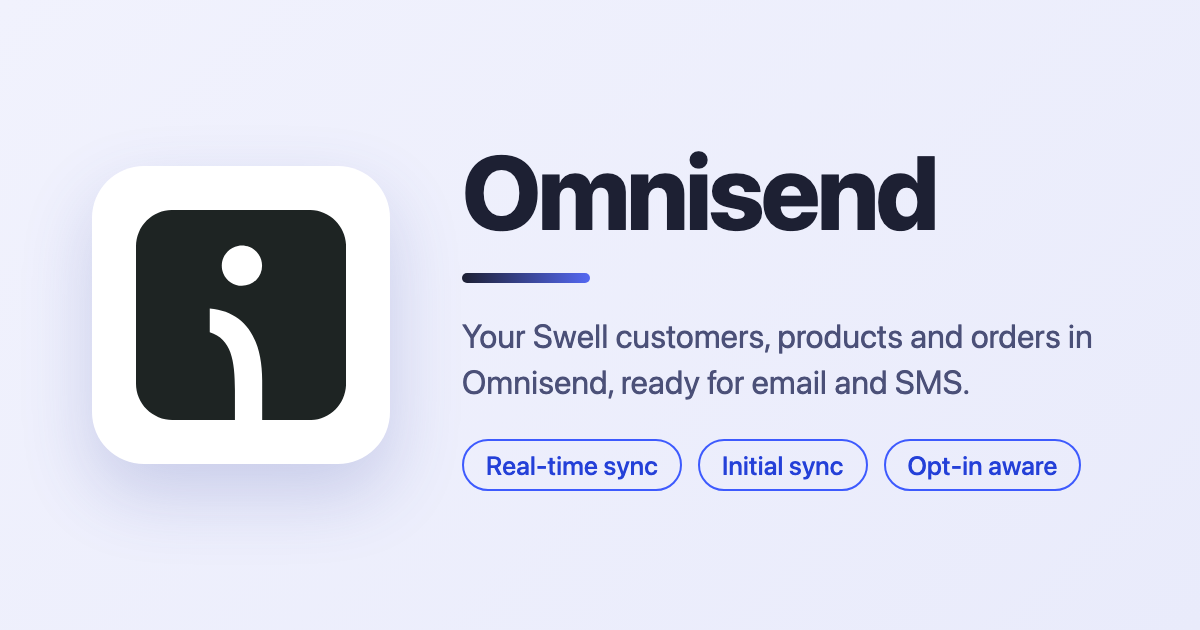
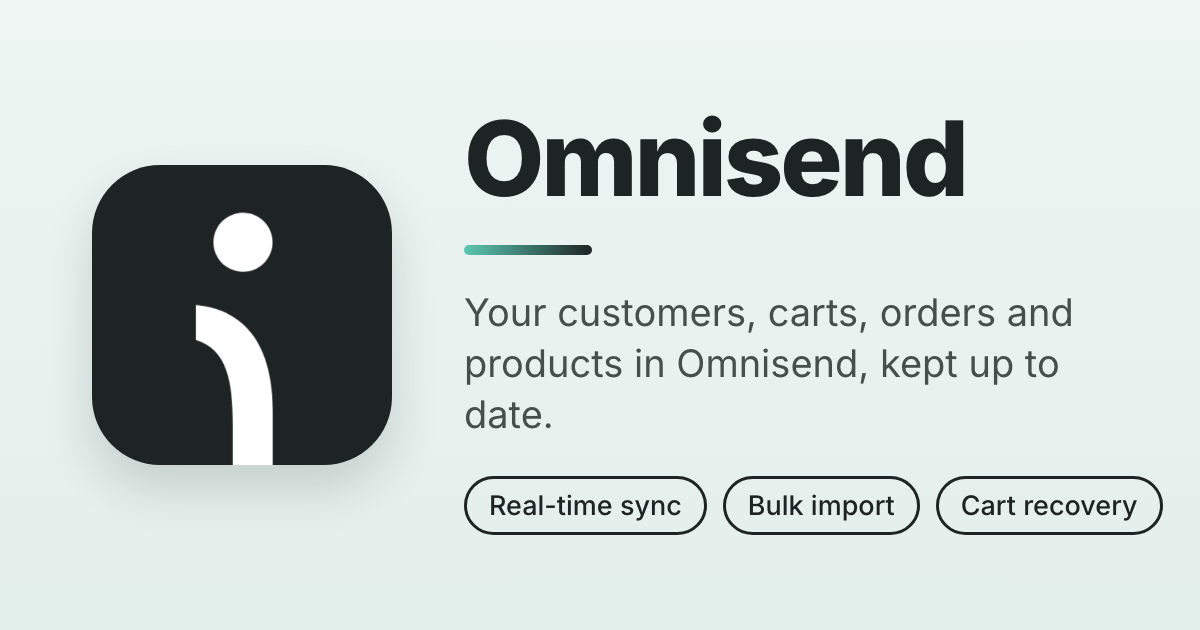
Rewrite the App Store listing in the house style
- DESCRIPTION.md follows the format of the other Swell-built apps: what is
  sent for contacts, carts, orders and products, the sync page for existing
  data, and the install prompt that turns the built-in integration off
- A new tagline in swell.json and package.json
- Four listing images in assets/images/, rebuilt from real screens: the
  app's sync page (from frontend/src), a contact in Omnisend (rebuilt from
  Omnisend's help-center screenshots), the app settings, and the install
  conflict prompt. Sync options are on the cover now, so the separate
  sync-options image is gone
- The icon is the Omnisend mark as a full-bleed square, since Swell rounds
  icons itself. New 1200x630 social card
- swell.json links the new app guide in documentation_url and sets
  price_external, since the app needs an Omnisend account
- The API key hint in the settings and README points to Omnisend's current
  Store settings → API keys page

diff --git a/DESCRIPTION.md b/DESCRIPTION.md
@@ -1,28 +1,14 @@
-# Omnisend
+Keep Omnisend up to date with your Swell store. Customers, carts, orders and products are sent to Omnisend as they change, so Omnisend automations, like abandoned cart emails and order follow-ups, run on your store's data.
 
-Sync customers, products, carts and orders with Omnisend for email and SMS marketing automation.
+Connect your Omnisend account with an API key and your store URL, then send your existing contacts, products and orders from the Omnisend sync page in your dashboard. From then on, changes in your store reach Omnisend on their own.
 
-## How it works
+- **Contacts.** New customers are added to Omnisend with their name and address. Customers who accept email marketing are subscribed to email, and the others are added as not subscribed.
+- **Carts.** Carts linked to a customer are sent with their items, total and a link back to checkout, ready for Omnisend's abandoned cart automation.
+- **Orders.** Orders are sent with their items, totals, addresses and shipping method, and their payment and fulfillment status stays up to date, including refunds and cancellations.
+- **Products.** Products are sent with their description, tags, image, stock status and variants with prices, and removed from Omnisend when you delete them.
+- **Your existing data.** The Omnisend sync page sends contacts, products and orders in batches: all of them, or only those created since a date. Follow the progress of each, and stop or resume at any time.
+- **Your customers' language.** Optionally, carts and orders are sent in the language the customer shopped in.
 
-1. **Syncs store changes in real time.** When the integration is enabled, store events are sent to Omnisend:
+**Replaces the built-in integration.** The app syncs the same records as Swell's built-in Omnisend integration. If the built-in integration is on when you install the app, Swell offers to turn it off so nothing is sent twice.
 
-   | Store event                                                                         | Omnisend                    |
-   | ----------------------------------------------------------------------------------- | --------------------------- |
-   | `account.created`, `account.updated`                                                | Contact created / updated   |
-   | `cart.created`, `cart.updated`, `cart.deleted`                                      | Cart created / updated / deleted |
-   | `order.submitted`, `order.updated`                                                  | Order created / updated     |
-   | `product.created`, `product.updated`, `product.variant.updated`, `product.deleted`  | Product created / updated / deleted |
-
-2. **Sends complete records.**
-   - **Contacts** – name, address and phone. Email status is subscribed when the customer opted in to email marketing, otherwise not subscribed.
-   - **Carts** – items, total and checkout recovery link. Only carts linked to a customer account are sent.
-   - **Orders** – items, totals, addresses, shipping, payment and fulfillment status, and cancel date.
-   - **Products** – description, tags, stock status, image and variants with sale and option prices.
-
-   Amounts are sent in cents, and product links are built from your store URL. Orders and carts can optionally be sent in the customer's display language.
-
-3. **Imports existing data.** The **Omnisend sync** page in the dashboard sends existing contacts, products and orders to Omnisend in batches, so Omnisend knows about records created before the app was installed. Sync everything or only records created since a date, choose the page size, and start, stop or resume each entity separately.
-
-## Setup
-
-Enter your Omnisend API key and store URL in the app settings and turn on Enable Integration. Open **Omnisend sync** in the sidebar and sync contacts, products, then orders. Disable the native Omnisend integration to avoid sending events twice.
+Setup takes a few minutes. In Omnisend, go to Store settings → API keys and create a key. Paste it and your store URL in the app settings and turn on Enable Integration. Then open Omnisend sync in your dashboard menu and sync contacts, products and then orders.

diff --git a/README.md b/README.md
@@ -101,7 +101,7 @@ Configured in the app settings (`settings/omnisend.json`), under **Apps → Omni
 
 | Setting              | Type   | Required | Default | Description                                                                 |
 | -------------------- | ------ | -------- | ------- | --------------------------------------------------------------------------- |
-| `api_key`            | text   | yes      |         | Omnisend API key (Omnisend → Profile → Integrations & API → API Keys).      |
+| `api_key`            | text   | yes      |         | Omnisend API key (Omnisend → Store settings → API keys).      |
 | `store_url`          | text   | yes      |         | Storefront URL starting with `https://`, used for product and item links.  |
 | `enabled`            | toggle | no       | off     | Turns real-time sync on. The sync route also requires it.                   |
 | `use_display_locale` | toggle | no       | off     | Fetch orders and carts in their display locale before sending.             |
